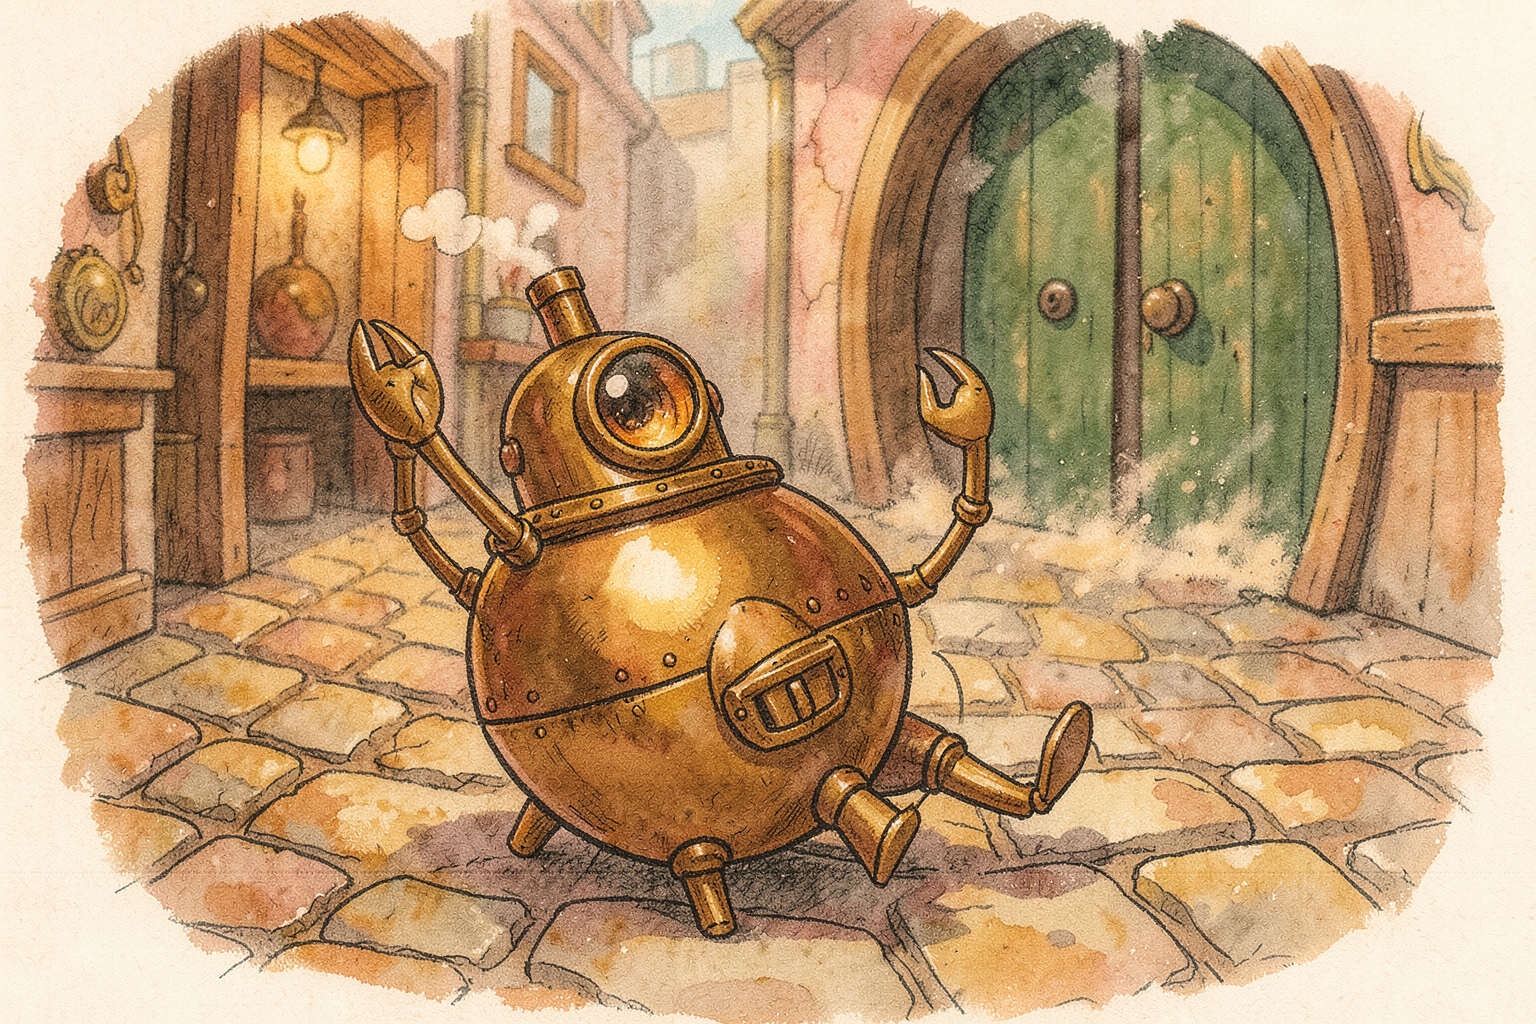
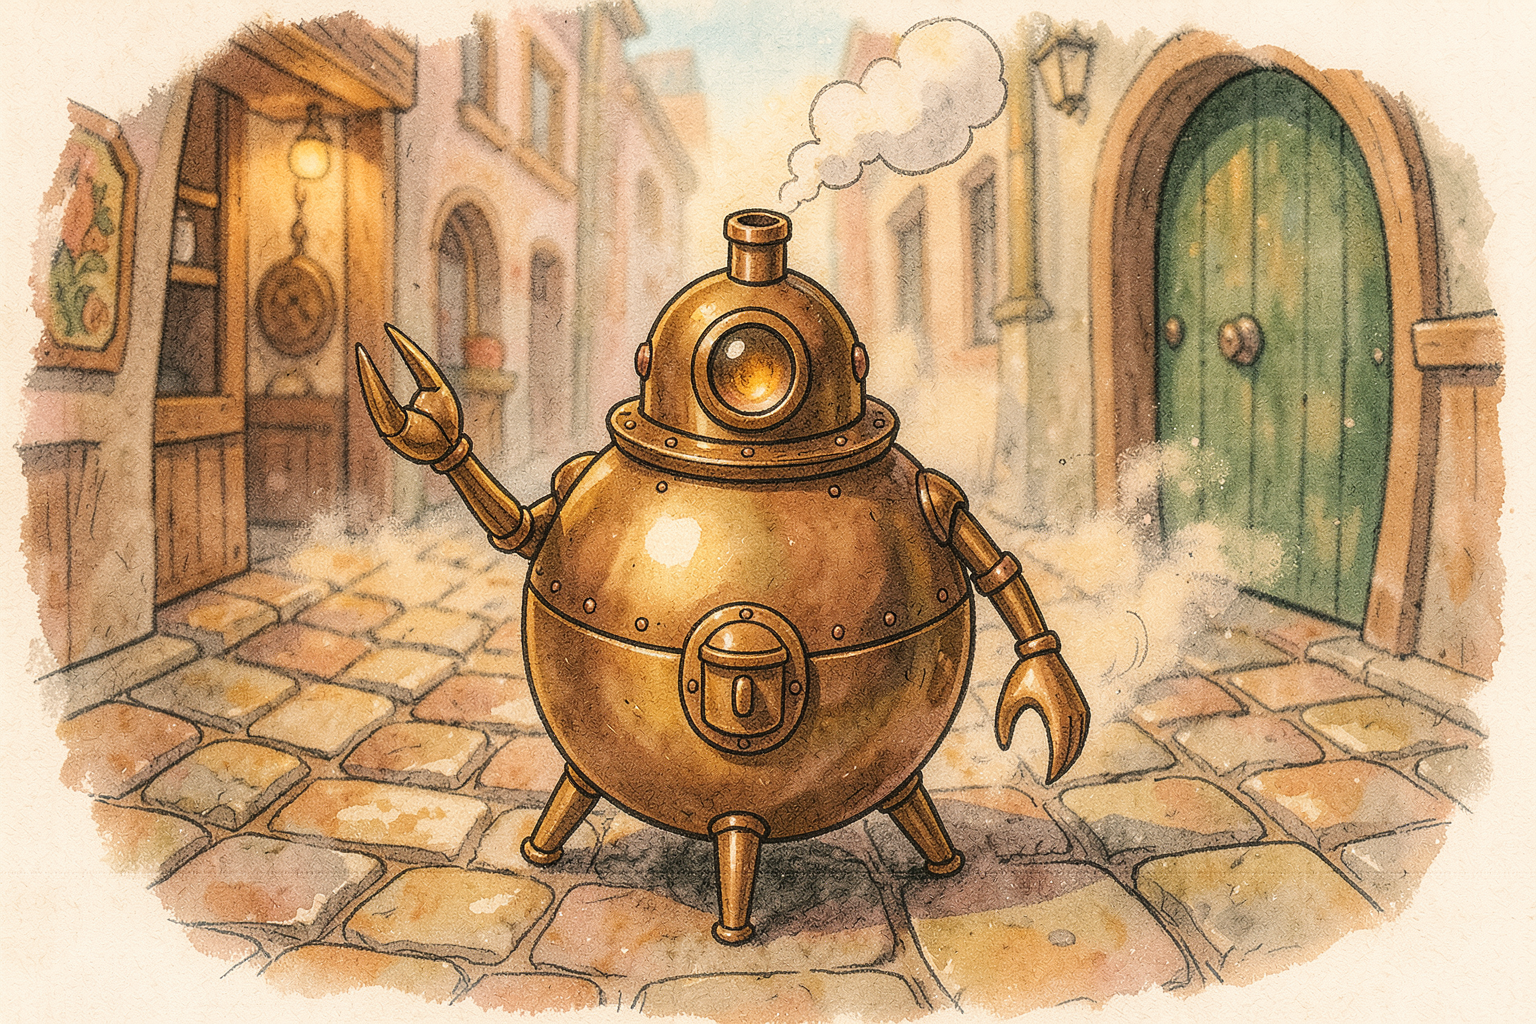
R3–R6 Ringzeichen bereinigt, Nachbesserung Perle 1, Grundkarten K1/K2

diff --git a/tools/zeichen-einsetzen.py b/tools/zeichen-einsetzen.py
@@ -1,0 +1,23 @@
+# Ersetzt eine Stelle in einem Bild durch das Ringzeichen (docs/art/requisiten/ringzeichen.png).
+# Aufruf: python tools/zeichen-einsetzen.py <bild> <cx> <cy> <groesse> <farbe> [--decke dx,dy,r]
+#   cx, cy   Mitte der Stelle, groesse = Durchmesser des Zeichens in Pixeln
+#   farbe    z. B. 5a4630 (eingeschnitzt) oder f2efe6 (Kreide)
+#   --decke  übermalt vorher einen Kreis mit Radius r an der Stelle mit dem Bildinhalt, der um dx,dy verschoben liegt
+#            (entfernt das alte Zeichen; weich überblendet)
+# Überschreibt das Bild. Entstanden 14.10.2026 für die Aufträge R4/R5 (Spirale entfernen).
+import sys
+from PIL import Image, ImageDraw, ImageFilter, ImageOps
+
+bild, cx, cy, g, farbe = sys.argv[1], int(sys.argv[2]), int(sys.argv[3]), int(sys.argv[4]), sys.argv[5]
+B = Image.open(bild).convert('RGB')
+if '--decke' in sys.argv:
+    dx, dy, r = map(int, sys.argv[sys.argv.index('--decke') + 1].split(','))
+    p = B.crop((cx + dx - r, cy + dy - r, cx + dx + r, cy + dy + r))
+    m = Image.new('L', (2 * r, 2 * r), 0)
+    ImageDraw.Draw(m).ellipse((2, 2, 2 * r - 2, 2 * r - 2), fill=255)
+    B.paste(p, (cx - r, cy - r), m.filter(ImageFilter.GaussianBlur(max(2, r // 6))))
+Z = Image.open('docs/art/requisiten/ringzeichen.png').convert('L').resize((g, g), Image.LANCZOS)
+maske = ImageOps.invert(Z).point(lambda v: 255 if v > 110 else int(v * 2.2)).filter(ImageFilter.GaussianBlur(0.6))
+fl = Image.new('RGB', (g, g), '#' + farbe)
+B.paste(fl, (cx - g // 2, cy - g // 2), maske)
+B.save(bild)

diff --git a/tools/uebersicht.py b/tools/uebersicht.py
@@ -1,0 +1,20 @@
+# Baut ein beschriftetes Übersichtsbild aus fertigen Bildern eines Ordners.
+# Aufruf: python tools/uebersicht.py <ziel.png> <bild1.png> <bild2.png> ...  (4 Spalten)
+import sys, os
+from PIL import Image, ImageDraw, ImageFont
+ziel, fs = sys.argv[1], sys.argv[2:]
+sp, kb, kh = 4, 576, 384
+ze = (len(fs) + sp - 1) // sp
+c = Image.new('RGB', (sp * kb, ze * (kh + 28)), 'white'); d = ImageDraw.Draw(c)
+try:
+    font = ImageFont.truetype('arial.ttf', 15)
+except Exception:
+    font = None
+for k, f in enumerate(fs):
+    i = Image.open(f).convert('RGB'); w = int(kh * i.width / i.height)
+    if w > kb: w = kb
+    x, y = (k % sp) * kb, (k // sp) * (kh + 28)
+    i = i.resize((w, int(w * i.height / i.width)))
+    c.paste(i, (x + (kb - w) // 2, y))
+    d.text((x + 4, y + kh + 5), os.path.basename(f)[:-4], fill='black', font=font)
+c.save(ziel)

diff --git a/docs/auftraege.md b/docs/auftraege.md
@@ -32,12 +32,12 @@ Die Story-Texte und alle Prompts sind schon umgestellt. Die alten Dateien `spira
 
 **Prüfliste für jedes Bild mit dem Zeichen:** genau vier Ringe · im Kreis, nicht in einer Reihe (Audi) und nicht 3 + 2 versetzt (Olympia) · keine Drehform, kein Windrad, keine Haken · Mitte frei. Wenn das Modell es nicht sauber schafft: Zeichen weglassen und in Krita von Hand aus `requisiten/ringzeichen.png` einsetzen.
 
-- [ ] **R1 Ringsiegel:** `docs/art/requisiten/ringsiegel.png` mit `requisiten/ringsiegel.prompt.txt` und `--referenz docs/art/requisiten/ringsiegel-vorlage.png`, 1024×1024, 6 Seeds, bestes wählen. Eintrag in `requisiten/README.md` ergänzen (Seed).
-- [ ] **R2 Der Fremde – Schließe:** In `figuren/fremder-einzel.png` und `figuren/fremder-referenzblatt.png` ist die Schließe eine Spirale. **Das Gesicht ist abgenommen und soll bleiben.** Deshalb bevorzugt nur die Schließe in Krita ersetzen (Inpainting oder von Hand übermalen: kleine runde Bronzeschließe aus vier verschlungenen Ringen, Vorlage `requisiten/ringzeichen.png`). Nur wenn das nicht gut aussieht: neu erzeugen mit `fremder-einzel-neu.prompt.txt` bzw. `fremder-blatt.prompt.txt` und das Ergebnis Pasco zur Abnahme zeigen.
-- [ ] **R3 `szene-fremder-im-regen.png` (Perle 1):** Siegel auf dem Brief und Schließe zeigen die Spirale. Neu erzeugen mit dem aktualisierten Prompt (Referenzen: neues `fremder-einzel.png` aus R2, `requisiten/ringsiegel.png` aus R1) – oder Siegel und Schließe in Krita ersetzen, wenn das Bild sonst gut ist.
-- [ ] **R4 Suchspiel Perle 1 prüfen:** `szene-zwirbelgasse.png` (Türbalken), `entdeckung-ausrufer-ratshalle.png` (Kreide am Pfeiler), `szene-klippen-leuchtturm.png` (Felsen; **im Sand ist eine Spirale, die muss auf jeden Fall weg**). Jede Spirale entfernen oder durch das Ringzeichen ersetzen (Krita reicht). Zur Sicherheit auch `figur-tickwort.png` und `uebersicht-*.png` ansehen und die Übersicht neu bauen.
-- [ ] **R5 Alle übrigen fertigen Bilder durchsehen:** in `docs/art/` nach sichtbaren Spiralen suchen, die als Zeichen gemeint sein könnten (z. B. Tagebuch-Seiten, Ortsbilder). Fundstellen wie in R4 behandeln.
-- [ ] **R6 Abschluss:** committen, pushen, in diesem Abschnitt abhaken (mit Datum und Datei).
+- [x] **R1 Ringsiegel:** `docs/art/requisiten/ringsiegel.png` mit `requisiten/ringsiegel.prompt.txt` und `--referenz docs/art/requisiten/ringsiegel-vorlage.png`, 1024×1024, 6 Seeds, bestes wählen. Eintrag in `requisiten/README.md` ergänzen (Seed). → **14.10.2026:** `docs/art/requisiten/ringsiegel.png` (Seed 5).
+- [x] **R2 Der Fremde – Schließe:** In `figuren/fremder-einzel.png` und `figuren/fremder-referenzblatt.png` ist die Schließe eine Spirale. **Das Gesicht ist abgenommen und soll bleiben.** Deshalb bevorzugt nur die Schließe in Krita ersetzen (Inpainting oder von Hand übermalen: kleine runde Bronzeschließe aus vier verschlungenen Ringen, Vorlage `requisiten/ringzeichen.png`). Nur wenn das nicht gut aussieht: neu erzeugen mit `fremder-einzel-neu.prompt.txt` bzw. `fremder-blatt.prompt.txt` und das Ergebnis Pasco zur Abnahme zeigen. → **14.10.2026:** Nur die Schließe ersetzt (Ausschnitt aus einer Bearbeitungsfassung ins Original eingesetzt, Gesicht unverändert): `figuren/fremder-einzel.png`, `figuren/fremder-referenzblatt.png`. Beschreibung in `figuren/README.md`.
+- [x] **R3 `szene-fremder-im-regen.png` (Perle 1):** Siegel auf dem Brief und Schließe zeigen die Spirale. Neu erzeugen mit dem aktualisierten Prompt (Referenzen: neues `fremder-einzel.png` aus R2, `requisiten/ringsiegel.png` aus R1) – oder Siegel und Schließe in Krita ersetzen, wenn das Bild sonst gut ist. → **14.10.2026:** `szenen/perle-1/szene-fremder-im-regen.png` neu (Seed 1).
+- [x] **R4 Suchspiel Perle 1 prüfen:** `szene-zwirbelgasse.png` (Türbalken), `entdeckung-ausrufer-ratshalle.png` (Kreide am Pfeiler), `szene-klippen-leuchtturm.png` (Felsen; **im Sand ist eine Spirale, die muss auf jeden Fall weg**). Jede Spirale entfernen oder durch das Ringzeichen ersetzen (Krita reicht). Zur Sicherheit auch `figur-tickwort.png` und `uebersicht-*.png` ansehen und die Übersicht neu bauen. → **14.10.2026:** Klippen neu (Spirale weg), Zwirbelgasse und Ratshalle mit `tools/zeichen-einsetzen.py` bereinigt, Übersichten neu.
+- [x] **R5 Alle übrigen fertigen Bilder durchsehen:** in `docs/art/` nach sichtbaren Spiralen suchen, die als Zeichen gemeint sein könnten (z. B. Tagebuch-Seiten, Ortsbilder). Fundstellen wie in R4 behandeln. → **14.10.2026:** Keine weiteren Fundstellen, siehe `szenen/perle-1/README.md`.
+- [x] **R6 Abschluss:** committen, pushen, in diesem Abschnitt abhaken (mit Datum und Datei). → **14.10.2026:** Commit „R3–R6, Nachbesserung Perle 1, Grundkarten“.
 
 Noch nicht erzeugte Bilder (Perle 3 `szene-raum-der-vier`, Perle 4 `szene-fremder-am-grauen`, Perle 5/7 Herz des Berges, Perle 7 Fährfrau und Steg, Tagebuch-Skizzen) brauchen nichts Extra: Ihre Prompts nennen schon die Ringe und `ringzeichen.png`/`ringsiegel.png` als Referenz. Nur die Prüfliste oben gilt dort auch.
 
@@ -109,8 +109,8 @@ node tools/erzeuge-bild.js docs/art/szenen/perle-1/szene-hafen-kran.prompt.txt d
 
 ### Nachbesserung Perle 1 (Prüfung Claude, 14.10.2026)
 Gründe und Änderungen: `docs/art/szenen/perle-1/README.md`, Abschnitt „Prüfung durch Claude“. Prompts sind schon angepasst.
-- [ ] Neu: `figur-tickwort` (drei Beine!) · `szene-goblin-werkstatt` (Tickwort und Maschine getrennt) · `entdeckung-ausrufer-ratshalle` (kein Kreuz, Waage-Zeichen)
-- [ ] Optional: `szene-nordkai-kisten` · `requisiten/dampfkarren`
+- [x] Neu: `figur-tickwort` (drei Beine!) · `szene-goblin-werkstatt` (Tickwort und Maschine getrennt) · `entdeckung-ausrufer-ratshalle` (kein Kreuz, Waage-Zeichen) → **14.10.2026:** Alle drei neu, siehe Abschnitt „Nachbesserung“ in `szenen/perle-1/README.md`.
+- [x] Optional: `szene-nordkai-kisten` · `requisiten/dampfkarren` → **14.10.2026:** Nordkai neu (Seed 4); Dampfkarren auch in Runde 3 mit vier Rädern, bleibt.
 
 ## Perle 2 – Szenenbilder (Auftrag vom 13.10.2026, nachgeholt)
 
@@ -239,11 +239,11 @@ Neues Verfahren, von Pasco entschieden: **Grundkarte und Orte getrennt**. Alles 
 Alle Kartenbilder auf **reinweißem Hintergrund**, ohne Papierstruktur und ohne Schrift.
 
 ### Schritt K1 – Grundkarten
-- [ ] `docs/art/karten/meridel-grund` (1536×1248, Referenz `meridel-grundvorlage.png`) – nur Küste, Meer, Fluss, Gebirge
-- [ ] `docs/art/karten/lysmara-grund` (1536×1152, Referenz `lysmara-grundvorlage.png`) – Stadtgrundriss ohne Wahrzeichen
+- [x] `docs/art/karten/meridel-grund` (1536×1248, Referenz `meridel-grundvorlage.png`) – nur Küste, Meer, Fluss, Gebirge → **14.10.2026:** `karten/meridel-grund.png` (Seed 1).
+- [x] `docs/art/karten/lysmara-grund` (1536×1152, Referenz `lysmara-grundvorlage.png`) – Stadtgrundriss ohne Wahrzeichen → **14.10.2026:** `karten/lysmara-grund.png` (Seed 8, zweite Runde).
 
 ### Schritt K2 – Einmessen
-- [ ] Prüfbilder `pruefung-meridel.png` und `pruefung-lysmara.png` (Grundkarte + Lagevorlage mit 50 % Deckkraft), danach `x`/`y`, Wege und Bereiche in `karten.json` an die gemalte Karte anpassen und `"eingemessen"` eintragen. Pasco Bescheid geben, Claude prüft im Chat.
+- [x] Prüfbilder `pruefung-meridel.png` und `pruefung-lysmara.png` (Grundkarte + Lagevorlage mit 50 % Deckkraft), danach `x`/`y`, Wege und Bereiche in `karten.json` an die gemalte Karte anpassen und `"eingemessen"` eintragen. Pasco Bescheid geben, Claude prüft im Chat. → **14.10.2026:** Prüfbilder angelegt, deckungsgleich, `eingemessen` in `karten.json` eingetragen. **Claude im Chat kann prüfen.**
 
 ### Schritt K3 – Ortsskizzen (`docs/art/karten/skizzen/`, je 4 Seeds)
 - [ ] Meridel: `lysmara`, `klippen-von-ahrn`, `weiden`, `wollmark`, `ginsterhof`, `das-graue`, `gnollenlager`

diff --git a/docs/art/szenen/perle-1/README.md b/docs/art/szenen/perle-1/README.md
@@ -237,3 +237,19 @@ Beide Übersichten angesehen. **Insgesamt sehr gelungen:** Stil einheitlich, Ich
 
 **Kann so bleiben** (kleine Schwächen, nicht störend): Möwe in `szene-morgen` mit Krönchen-artigem Fleck; `figur-freund-*` wirken etwas jünger als 12; Grumaks Hauer sehr groß; Ringbindung bei `tagebuch-erzmarke`/`-kompass` (für künftige Tagebuchbilder steht jetzt „genähter Lederrücken“ im Prompt).
 
+
+## Nachbesserung und Ringzeichen (lokale Sitzung, 14.10.2026)
+
+| Bild | Seed | Was gemacht wurde |
+|---|---|---|
+| `figur-tickwort` | 1 | Neu nach nachgeschärftem Prompt: jetzt drei Beine, ein Auge, Zangen |
+| `szene-goblin-werkstatt` | 8 (zweite Runde) | Runde 1 mit drei Referenzen: Tickwort verschmolz mit einem Goblin. Runde 2 nur mit Tickwort als Referenz (`-MaxRef 1`). Jetzt getrennt: Maschine hinten links, Tickwort auf der Kiste. Schwäche: hinter der Kiste lugt ein dritter Goblin hervor |
+| `entdeckung-ausrufer-ratshalle` | 1 | Kein Kreuz mehr (Wetterfahne), Waage auf den Brustplatten. Die Kreide am Pfeiler zeigte vier Ringe **in einer Reihe** (verboten, wirkt wie Audi) – mit `tools/zeichen-einsetzen.py` übermalt und das Ringzeichen klein als Kreide eingesetzt |
+| `szene-nordkai-kisten` | 4 | Optional neu: drei Söldner, Waage auf der Brust erkennbar |
+| `szene-fremder-im-regen` (R3) | 1 | Neu mit `fremder-einzel.png` (Ringschließe) und `ringsiegel.png`: Siegel und Schließe zeigen die vier Ringe. Gesicht sichtbar wie beim Einzelbild |
+| `szene-klippen-leuchtturm` (R4) | 1 | Neu: die Spirale im Sand ist weg, Tickwort hat drei Beine. Prompt verbietet Zeichen im Sand |
+| `szene-zwirbelgasse` (R4) | – | Am Türbalken war ein herzförmiger Knoten (keine Spirale, aber kein Ringzeichen). Übermalt und das Ringzeichen klein eingeschnitzt eingesetzt |
+
+`requisiten/dampfkarren` (optional): auch die dritte Runde (6 Seeds) hat vier Räder. Bleibt wie es ist, Schwäche steht in `requisiten/README.md`.
+
+**R5 – übrige Bilder durchgesehen (14.10.2026):** alle Bilder in `figuren/`, `orte/`, `requisiten/` und `szenen/perle-1/` (einschließlich Tagebuchseiten) über die Übersichten und Ausschnitte geprüft. Weitere Spiralen oder spiralartige Zeichen gefunden: keine. Übersichten `uebersicht-1.png` und `-2.png` neu gebaut.

diff --git a/docs/art/karten/README.md b/docs/art/karten/README.md
@@ -60,3 +60,11 @@ Die Koordinaten in `karten.json` stammen aus der Lagevorlage. Die gemalte Grundk
 - Jeder `# karte: …`-Schlüssel der Story steht unter `tags` in `karten.json`. `npm test` meldet Schlüssel, die fehlen.
 - Neue Orte: zuerst in `docs/worldbuilding/karte-meridel.md`, dann Eintrag in `karten.json` (Ort, Tag, ggf. Bereich/Weg) und eine Prompt-Datei in `skizzen/`.
 - Die früheren ganzen Kartenbilder je Perle (`karte-meridel-perle-1`, `karte-meridel-perle-4`) **entfallen**. Tagebuchbilder mit Kartenmotiv (z. B. `tagebuch/perle-1`, „Die erste Seite“) bleiben, sie sind Bilder im Tagebuch, nicht die Karte.
+
+## Grundkarten (lokale Sitzung, 14.10.2026)
+| Datei | Seed | Bemerkung |
+|---|---|---|
+| `meridel-grund.png` | 1 | Folgt der Grundvorlage genau (Prüfbild `pruefung-meridel.png`). Schwäche: ein zusätzlicher kleiner Bach kommt oben aus dem Kamm in den Orin; die Bergdreiecke der Vorlage sind noch als Umriss zu sehen |
+| `lysmara-grund.png` | 8 (zweite Runde) | Runde 1: Fluss lief rechts aus dem Bild statt unten entlang ins Meer; Prompt nachgeschärft. Prüfbild `pruefung-lysmara.png` deckt sich mit der Lagevorlage |
+
+**Einmessen (K2):** Beide Grundkarten wurden mit der Vorlage als Bildreferenz erzeugt und liegen deckungsgleich auf der Lagevorlage (siehe Prüfbilder). Die Koordinaten in `karten.json` mussten deshalb nicht verschoben werden; `"eingemessen": "14.10.2026"` ist eingetragen. Claude im Chat sollte die Prüfbilder noch einmal ansehen.
